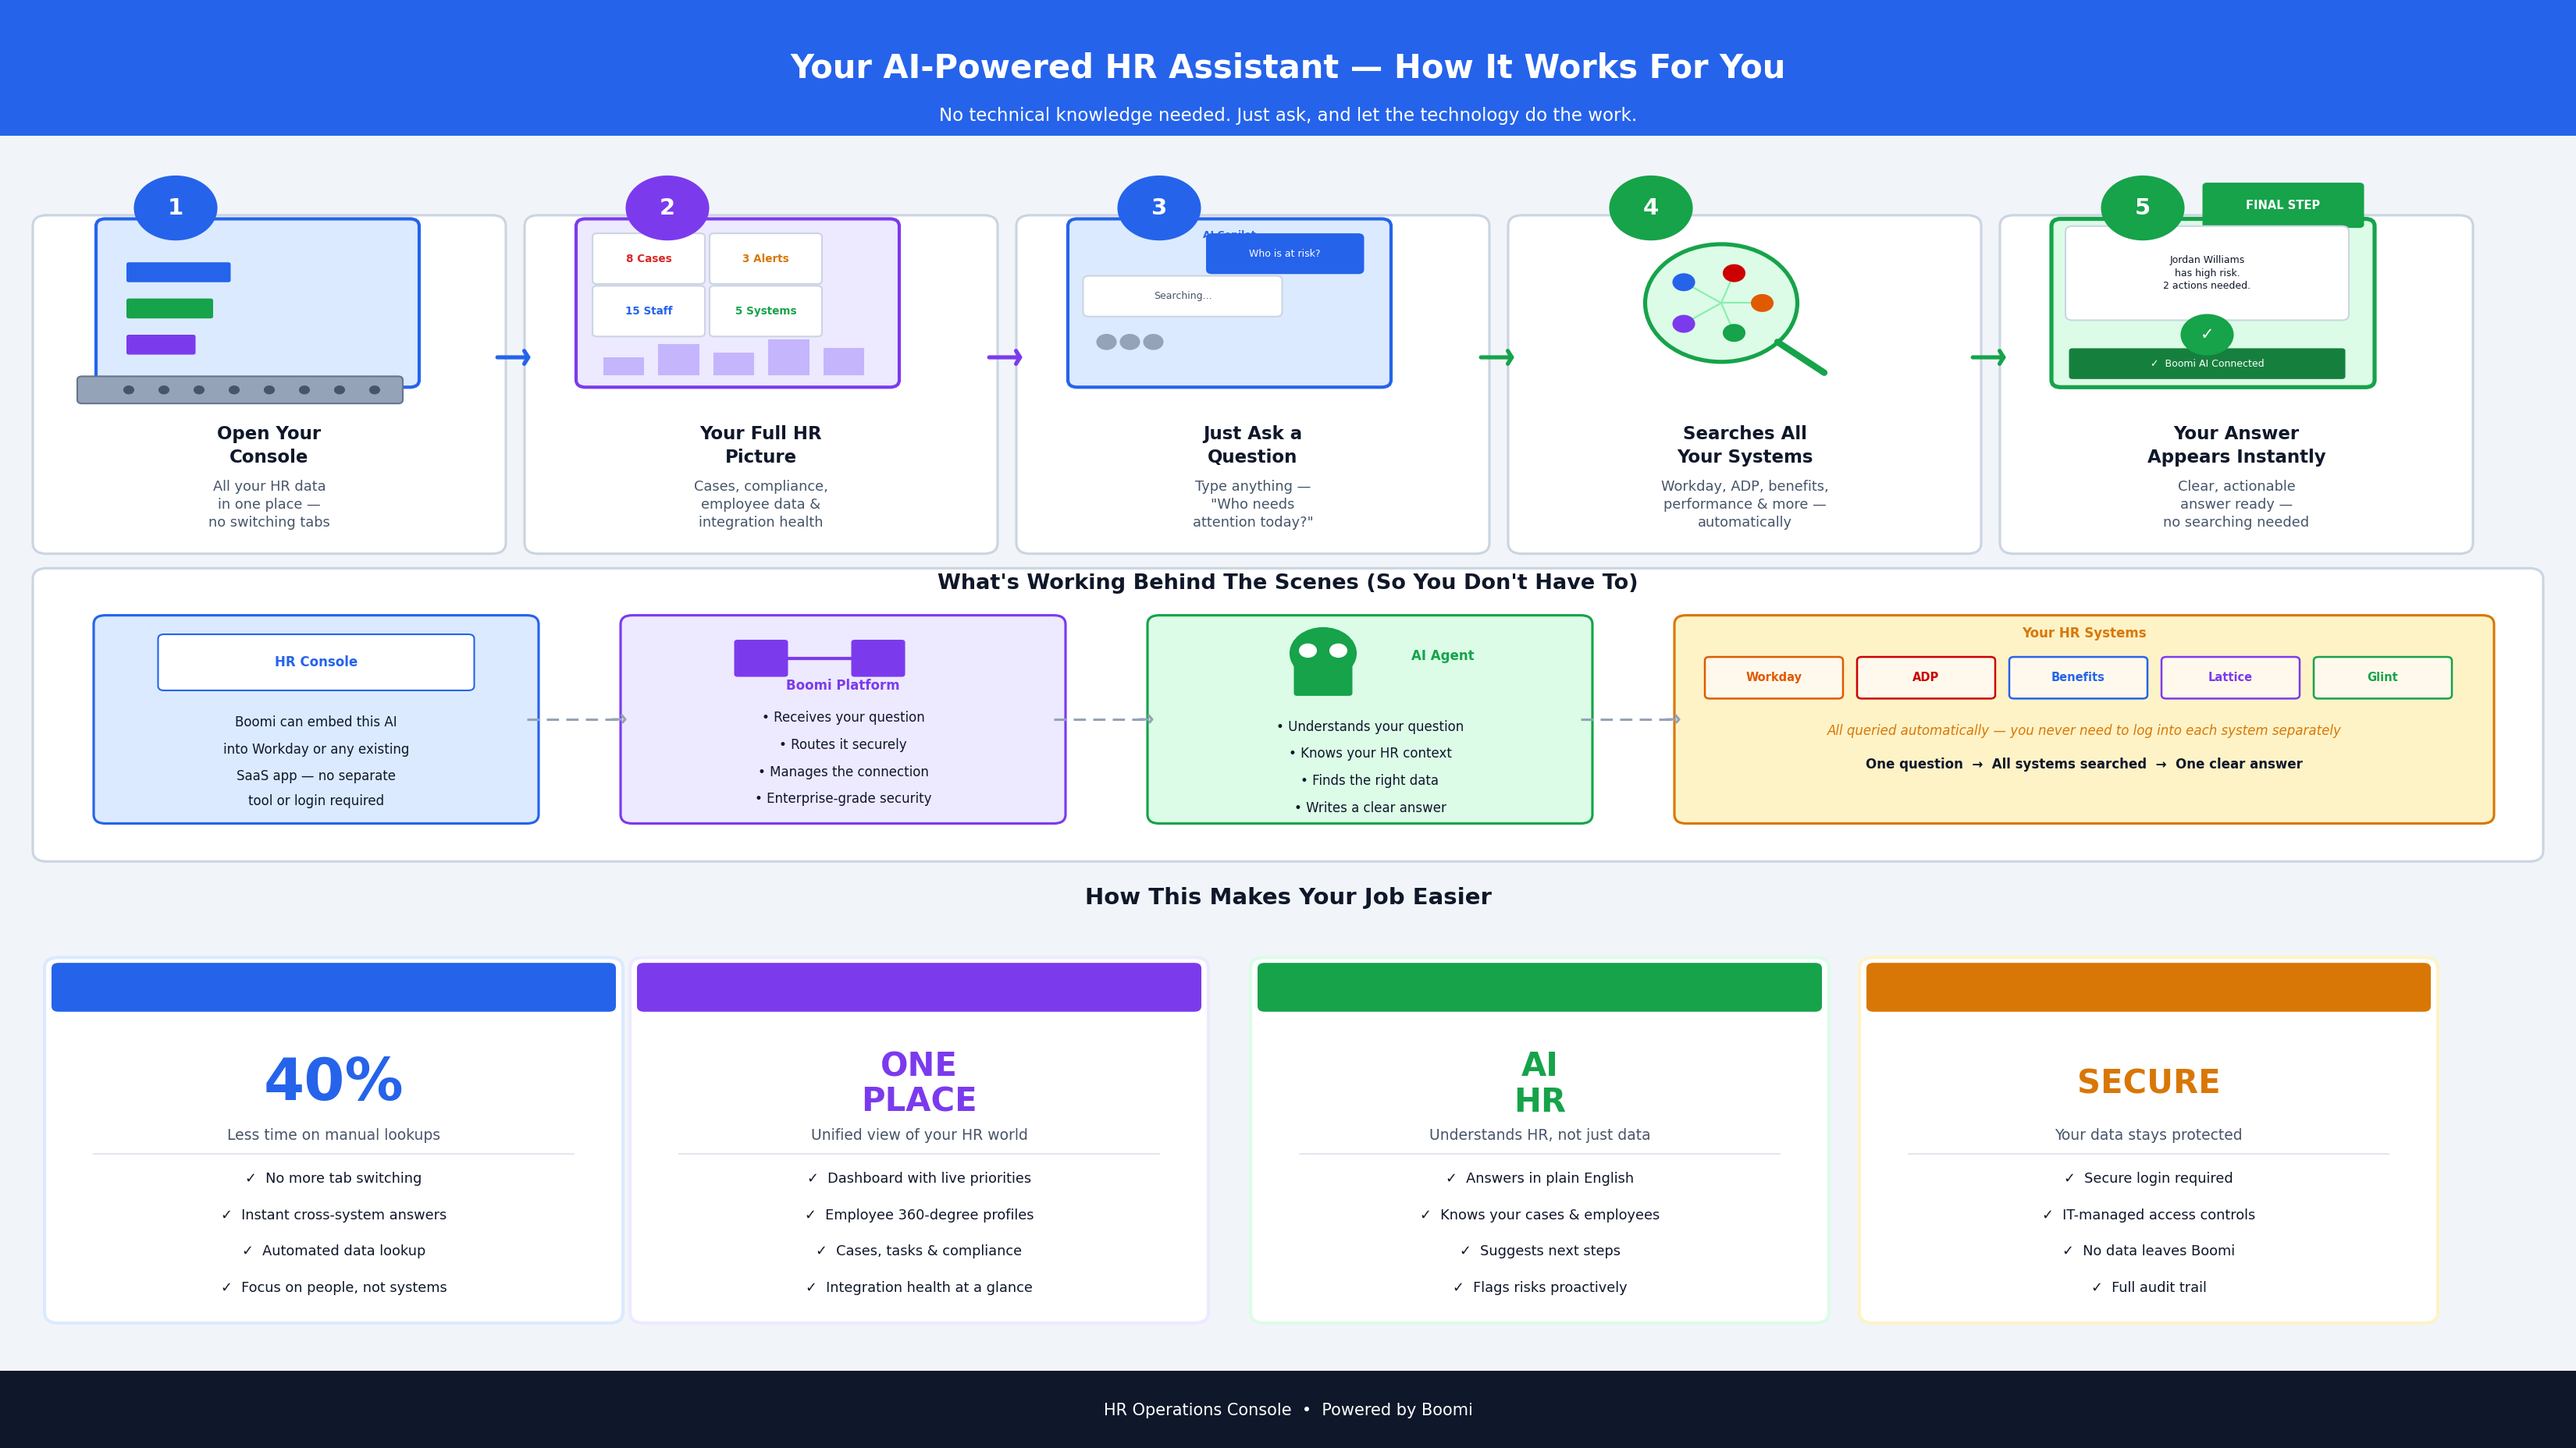
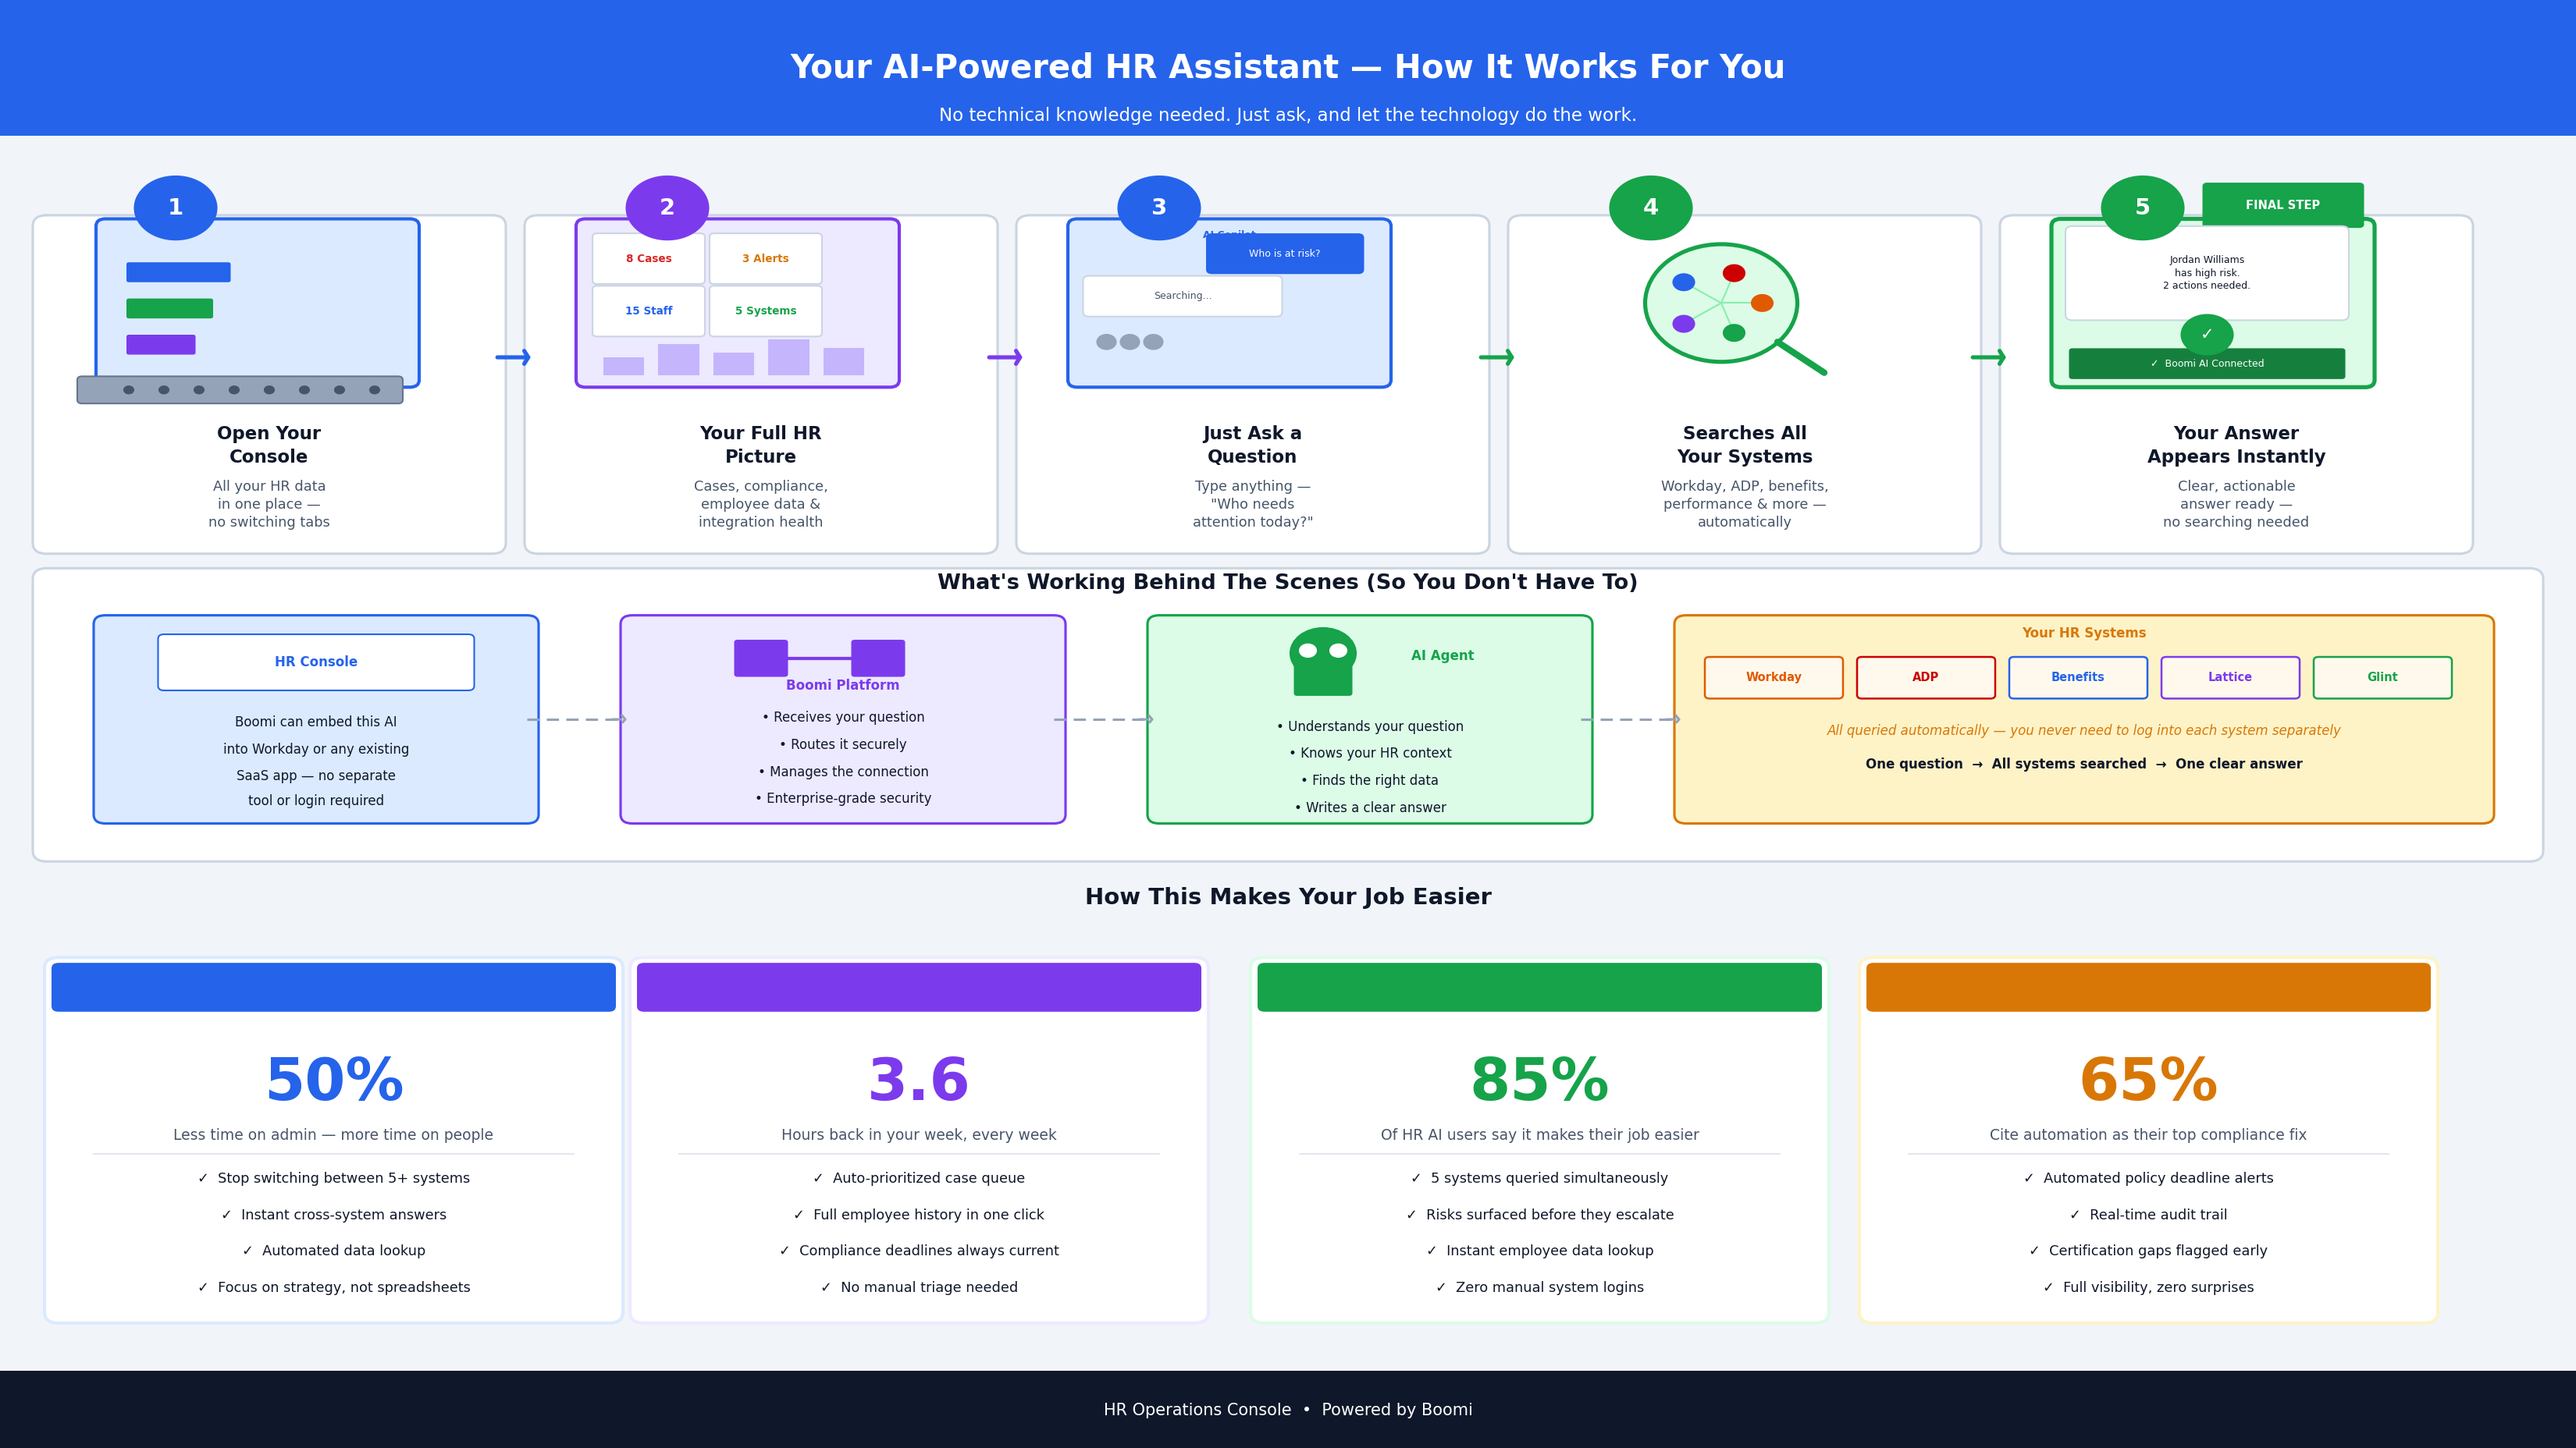
Updating hr graphic to be more value focused

diff --git a/active-development/scripts/hr/generate-hr-ops-hr-visual.py b/active-development/scripts/hr/generate-hr-ops-hr-visual.py
@@ -376,22 +376,22 @@ ax.text(11, 6.08, "How This Makes Your Job Easier",
         ha='center', va='center', fontsize=14, fontweight='bold', color=TEXT_DARK, zorder=3)
 
 BCARDS = [
-    (0.5,  BLUE_LT,   BLUE,   '40%',   BLUE,   36,
-     'Less time on manual lookups',
-     ['No more tab switching', 'Instant cross-system answers',
-      'Automated data lookup', 'Focus on people, not systems']),
-    (5.5,  PURPLE_LT, PURPLE, 'ONE\nPLACE', PURPLE, 20,
-     'Unified view of your HR world',
-     ['Dashboard with live priorities', 'Employee 360-degree profiles',
-      'Cases, tasks & compliance', 'Integration health at a glance']),
-    (10.8, GREEN_LT,  GREEN,  'AI\nHR', GREEN,  20,
-     'Understands HR, not just data',
-     ['Answers in plain English', 'Knows your cases & employees',
-      'Suggests next steps', 'Flags risks proactively']),
-    (16.0, ORANGE_LT, ORANGE, 'SECURE', ORANGE, 20,
-     'Your data stays protected',
-     ['Secure login required', 'IT-managed access controls',
-      'No data leaves Boomi', 'Full audit trail']),
+    (0.5,  BLUE_LT,   BLUE,   '50%',   BLUE,   36,
+     'Less time on admin — more time on people',
+     ['Stop switching between 5+ systems', 'Instant cross-system answers',
+      'Automated data lookup', 'Focus on strategy, not spreadsheets']),
+    (5.5,  PURPLE_LT, PURPLE, '3.6', PURPLE, 36,
+     'Hours back in your week, every week',
+     ['Auto-prioritized case queue', 'Full employee history in one click',
+      'Compliance deadlines always current', 'No manual triage needed']),
+    (10.8, GREEN_LT,  GREEN,  '85%', GREEN,  36,
+     'Of HR AI users say it makes their job easier',
+     ['5 systems queried simultaneously', 'Risks surfaced before they escalate',
+      'Instant employee data lookup', 'Zero manual system logins']),
+    (16.0, ORANGE_LT, ORANGE, '65%', ORANGE, 36,
+     'Cite automation as their top compliance fix',
+     ['Automated policy deadline alerts', 'Real-time audit trail',
+      'Certification gaps flagged early', 'Full visibility, zero surprises']),
 ]
 
 BCARD_W = 4.7
@@ -446,7 +446,7 @@ ax.text(11, 0.42,
 #  SAVE
 # ══════════════════════════════════════════════════════════════════════════════
 out_path = ("/mnt/c/users/BrianMerrick/Documents/Dev/ClaudeCode/"
-            "boomicompanion_template_workspace/business-demo/hr-ops-hr-visual.png")
+            "boomicompanion_template_workspace/business-demo/hr/hr-ops-hr-visual.png")
 
 plt.savefig(out_path, dpi=150, facecolor=BG)
 plt.close()
